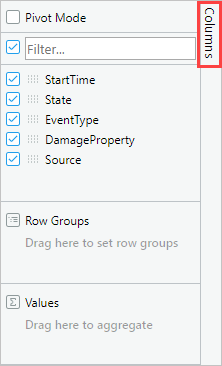
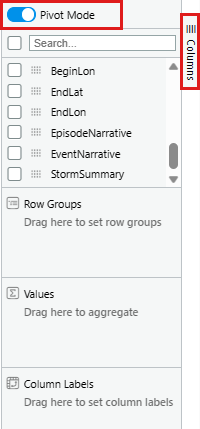
pivot table section edits

Changed region(s): [[0.0, 0.0, 1.0, 1.0]]

diff --git a/data-explorer/web-results-grid.md b/data-explorer/web-results-grid.md
@@ -126,21 +126,15 @@ You can add a filter operator to the query directly from the grid.
 
 ## Pivot
 
-The pivot mode feature is similar to Excel’s pivot table, enabling you to do advanced analysis in the grid itself.
+Pivot mode is similar to Excel’s pivot table. Pivot mode allows you to turn column values into columns. For example, you can pivot on the `State` column to make columns for "Florida", "Missouri", "Alabama", and so on.
 
-Pivoting allows you to take a columns value and turn them into columns. For example, you can pivot on *State* to make columns for Florida, Missouri, Alabama, and so on.
+1. On the right side of the results grid, select **Columns** to see the table tool panel. At the top of the panel, select **Pivot Mode**.
 
-1. On the right side of the grid, select **Columns** to see the table tool panel.
+    :::image type="content" source="media/web-query-data/tool-panel.png" alt-text="Screenshot showing how to access the pivot mode feature." lightbox="media/web-query-data/tool-panel.png":::
 
-    :::image type="content" source="media/web-query-data/tool-panel.png" alt-text="Screenshot showing how to access the pivot mode feature.":::
+1. Drag columns to the **Row groups**, **Values**, **Column labels** sections. For example, if you drag **EventType** to **Row groups**; **DamageProperty** to **Values**; and **State** to **Column labels**, then the result should look like the following pivot table.
 
-1. Select **Pivot Mode**, then drag columns as follows: **EventType** to **Row groups**; **DamageProperty** to **Values**; and **State** to **Column labels**.  
-
-    :::image type="content" source="media/web-query-data/pivot-mode.png" alt-text="Screenshot highlighting selected column names to create the pivot table.":::
-
-    The result should look like the following pivot table:
-
-    :::image type="content" source="media/web-query-data/pivot-table.png" alt-text="Screenshot of results in a pivot table.":::
+    :::image type="content" source="media/web-query-data/pivot-table.png" alt-text="Screenshot of results in a pivot table." lightbox="media/web-query-data/pivot-table.png":::
 
 ## Search in the results grid
 
